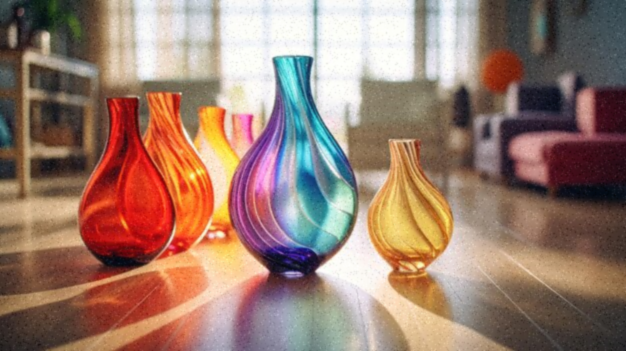
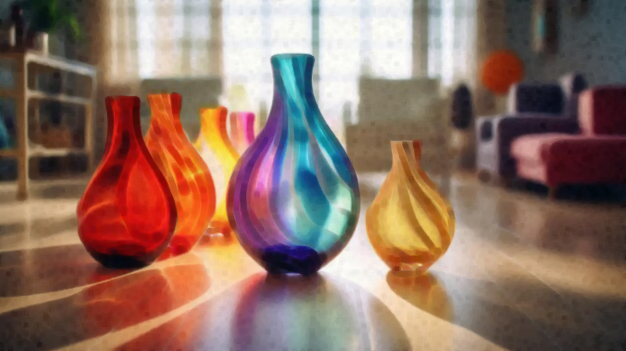
Медианный фильтр

diff --git a/Filters.cpp b/Filters.cpp
@@ -1,6 +1,9 @@
 #include "Filters.h"
 #include "pch.h"
 #include <math.h>
+#include <vector>
+#include <algorithm>
+using namespace std;
 using namespace System::Drawing;
 
 int NormalizeColor(int color)
@@ -93,9 +96,8 @@ void CountKernelGauss(double* kernel, int apert)
 }
 
 
-void GaussFilter(Bitmap^ img, int startRow, int endRow, Bitmap^ result, double* kernel)
+void GaussFilter(Bitmap^ img, int startRow, int endRow, Bitmap^ result, double* kernel, int apert)
 {
-    int apert = 2;
     int n = apert * 2 + 1;
 
     for (int i = 0; i < result->Width; i++)
@@ -118,15 +120,46 @@ void GaussFilter(Bitmap^ img, int startRow, int endRow, Bitmap^ result, double* 
                 }
             }
 
-            result->SetPixel(i, j, Color::FromArgb(img->GetPixel(i, j).A, NormalizeColor(int(round(R))), NormalizeColor(int(round(G))), NormalizeColor(int(round(B)))));
+            result->SetPixel(i, j, Color::FromArgb(result->GetPixel(i, j).A, NormalizeColor(int(round(R))), NormalizeColor(int(round(G))), NormalizeColor(int(round(B)))));
         }
     }
 }
 
-void MedianFilter()
+
+void MedianFilter(Bitmap^ img, int startRow, int endRow, Bitmap^ result, int apert)
 {
-	;
+    int n = apert * 2 + 1;
+    int size = n * n;
+
+    for (int i = 0; i < result->Width; i++)
+    {
+        for (int j = 0; j < result->Height; j++)
+        {
+            vector<int> rmas(size, 0);
+            vector<int> gmas(size, 0);
+            vector<int> bmas(size, 0);
+
+            for (int k = 0; k < n; k++)
+            {
+                for (int l = 0; l < n; l++)
+                {
+                    Color pixel = img->GetPixel(i + l, j + k);
+
+                    rmas[k * n + l] = pixel.R;
+                    gmas[k * n + l] = pixel.G;
+                    bmas[k * n + l] = pixel.B;
+                }
+            }
+
+            sort(rmas.begin(), rmas.end());
+            sort(gmas.begin(), gmas.end());
+            sort(bmas.begin(), bmas.end());
+
+            result->SetPixel(i, j, Color::FromArgb(result->GetPixel(i, j).A, rmas[apert], gmas[apert], bmas[apert]));
+        }
+    }
 }
+
 
 void SobelFilter()
 {

diff --git a/Filters.h b/Filters.h
@@ -4,6 +4,6 @@ using namespace System::Drawing;
 int NormalizeColor(int color);
 Bitmap^ MakeImgWithBordersCopy(Bitmap^ img, int apert);
 void CountKernelGauss(double* kernel, int apert);
-void GaussFilter(Bitmap^ img, int startRow, int endRow, Bitmap^ result, double* kernel);
-void MedianFilter();
+void GaussFilter(Bitmap^ img, int startRow, int endRow, Bitmap^ result, double* kernel, int apert);
+void MedianFilter(Bitmap^ img, int startRow, int endRow, Bitmap^ result, int apert);
 void SobelFilter();

diff --git a/PPP_lab2.cpp b/PPP_lab2.cpp
@@ -42,9 +42,16 @@ int main()
     bordered = MakeImgWithBordersCopy(img, apert);
 
     CountKernelGauss(kernel, apert);
-    GaussFilter(bordered, 0, img->Height - 1, result, kernel);
+
+    GaussFilter(bordered, 0, img->Height - 1, result, kernel, apert);
+
+    bordered = MakeImgWithBordersCopy(result, apert);
+
+    MedianFilter(bordered, 0, img->Height - 1, result, apert);
 
     result->Save("result.jpg");
+
+    delete[] kernel;
 
     return 0;
 }
